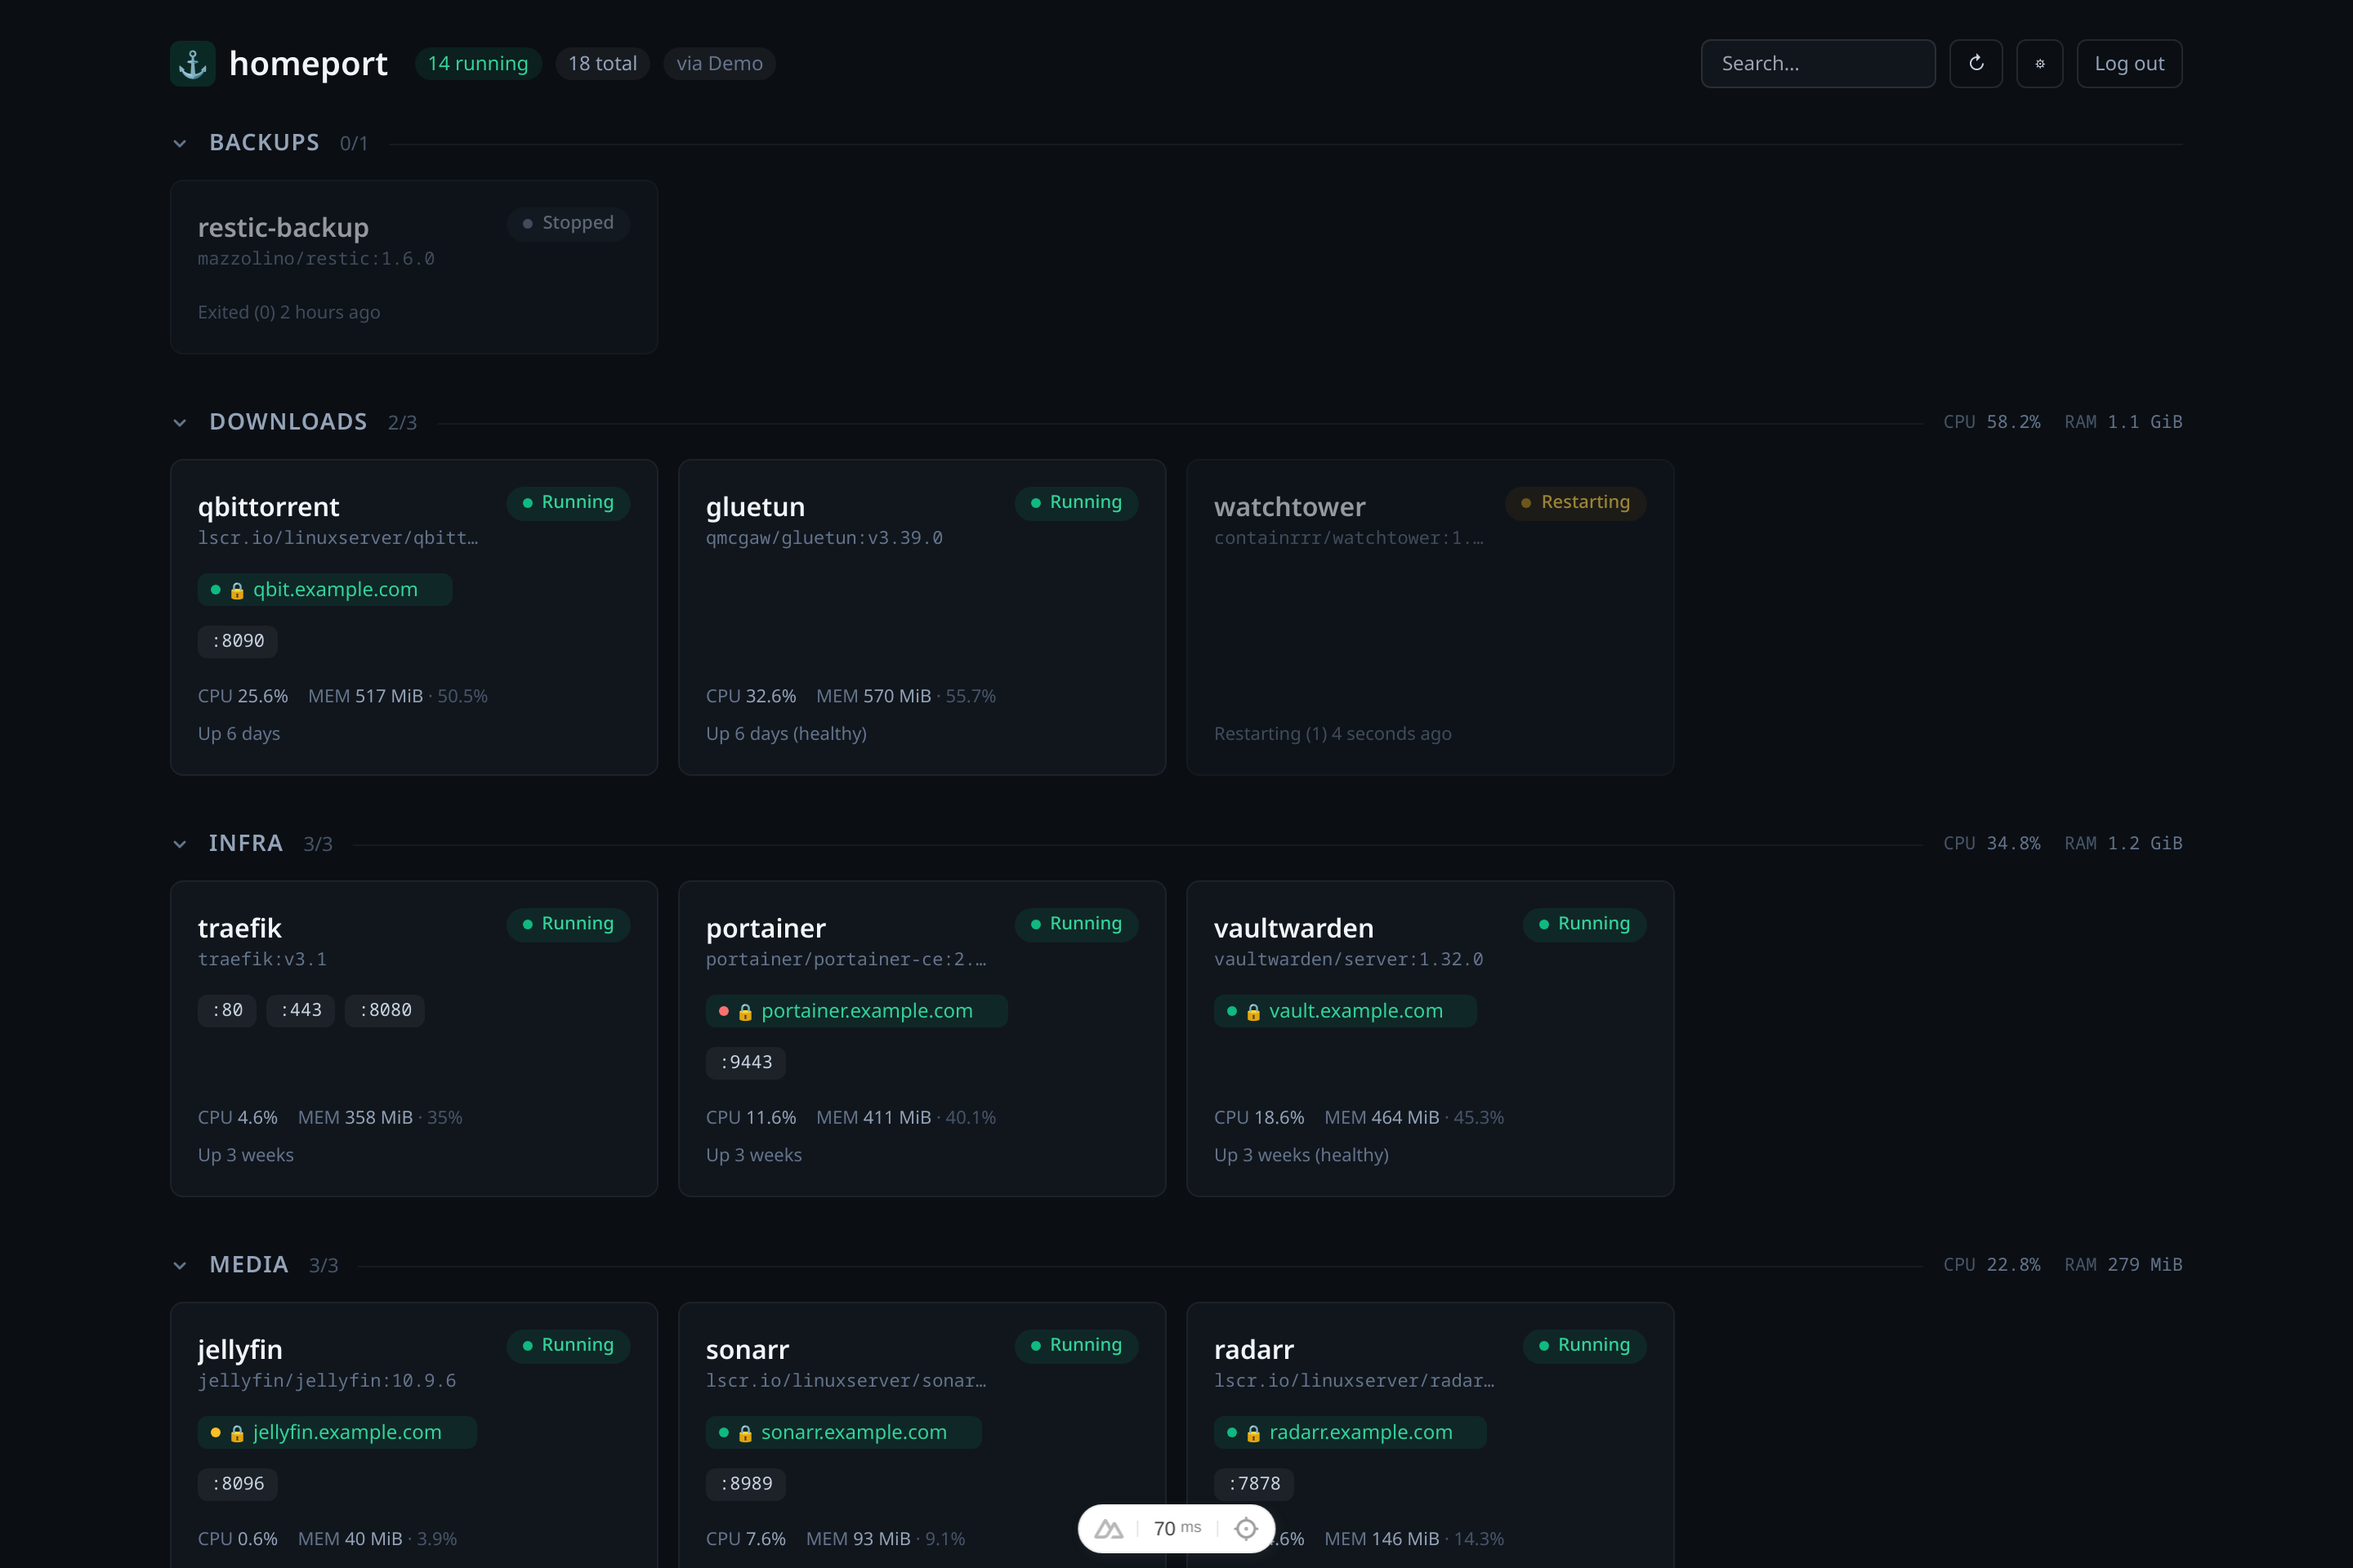
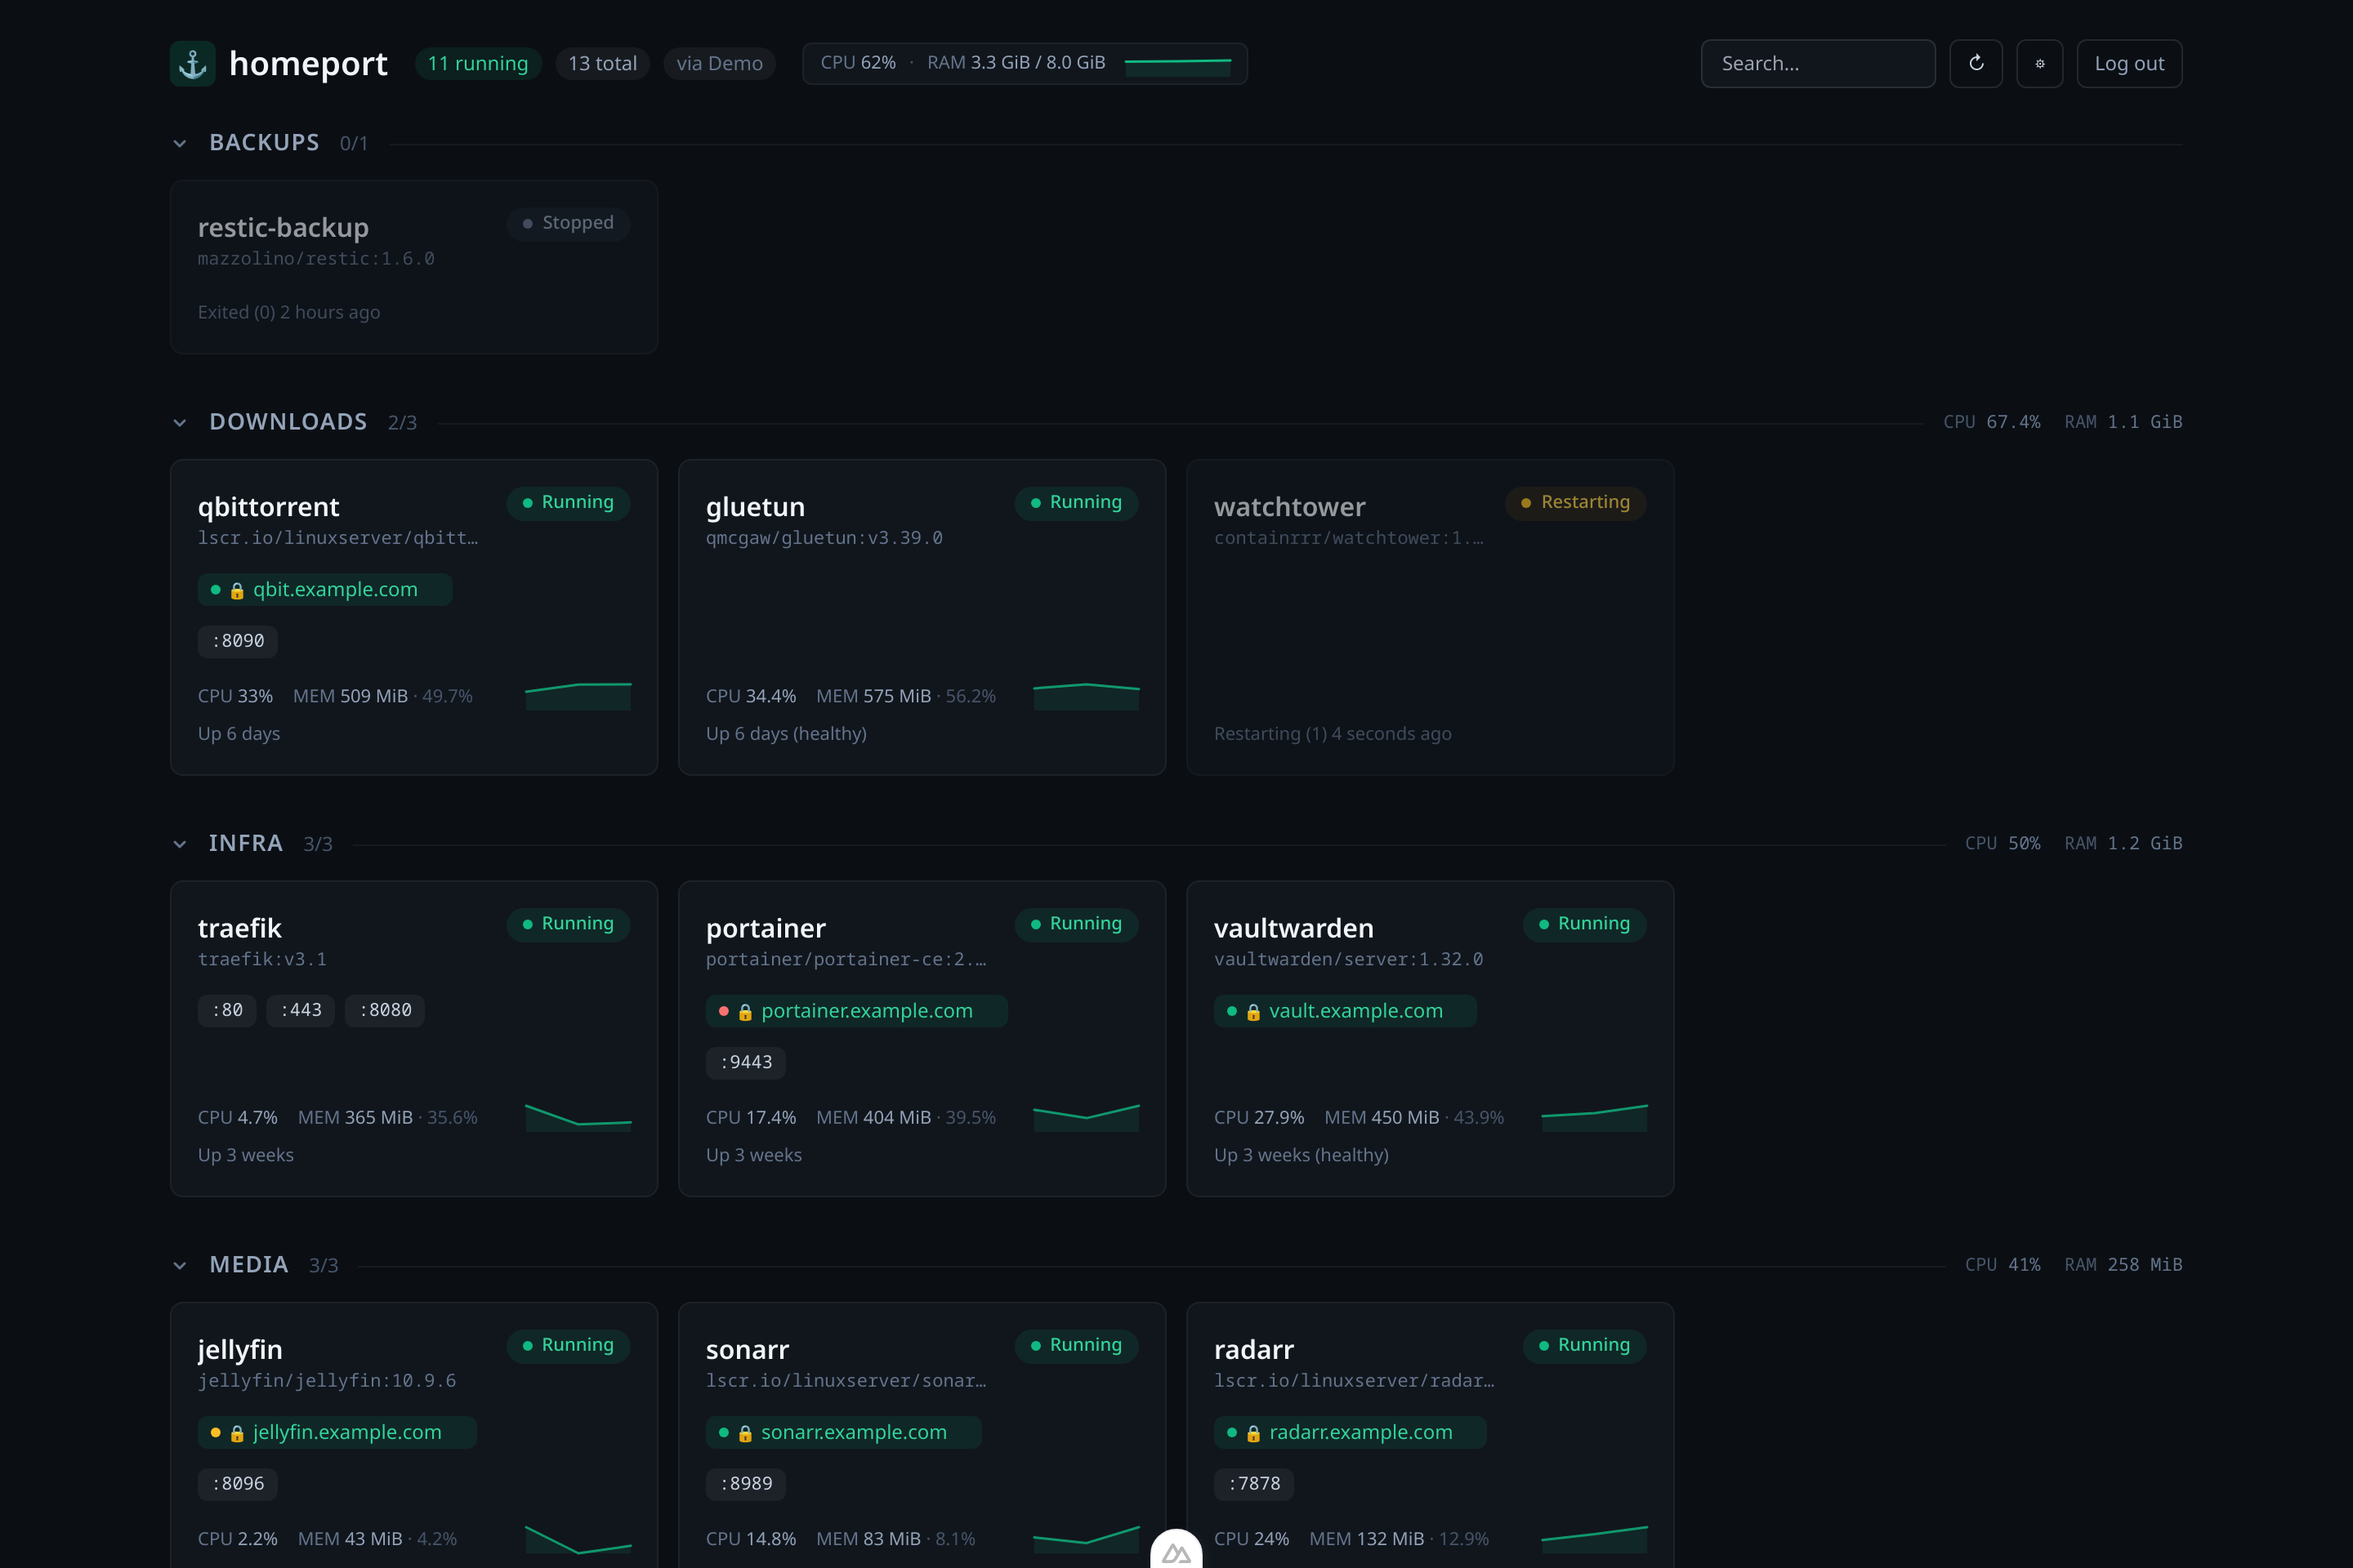
Add live graphs: per-container sparklines + fleet total
- Sparkline.vue (SVG); useStats keeps a rolling client-side history → CPU
  sparkline on each card.
- /api/stats now returns { containers, host }; getHostStats aggregates fleet
  CPU/mem vs host capacity (docker info NCPU + MemTotal) → fleet total + sparkline
  in the header. Demo stats oscillate so demo graphs animate.
- README/screenshot/CONTEXT updated.

diff --git a/composables/useStats.ts b/composables/useStats.ts
@@ -1,15 +1,50 @@
-import type { StatsMap } from '~/types/service'
+import type { HostStats, StatsMap, StatsResponse } from '~/types/service'
 
-/** Polls /api/stats on a slower cadence than the service list. */
+export interface StatHistory {
+  cpu: number[]
+  mem: number[] // MiB for containers, percent for host
+}
+
+const MAX = 40 // ~5 min at a 7s poll
+
+/** Polls /api/stats, exposes current per-container + host stats, and keeps a
+ *  rolling client-side history for live sparklines. */
 export function useStats() {
   const stats = useState<StatsMap>('hp:stats', () => ({}))
+  const host = useState<HostStats | null>('hp:host', () => null)
+  const history = useState<Record<string, StatHistory>>('hp:hist', () => ({}))
+  const hostHistory = useState<StatHistory>('hp:hosthist', () => ({ cpu: [], mem: [] }))
   let poll: ReturnType<typeof setInterval> | null = null
+
+  const push = (arr: number[], v: number) => {
+    const next = [...arr, v]
+    return next.length > MAX ? next.slice(next.length - MAX) : next
+  }
 
   async function refresh() {
     try {
-      stats.value = await $fetch<StatsMap>('/api/stats')
+      const r = await $fetch<StatsResponse>('/api/stats')
+      stats.value = r.containers
+      host.value = r.host
+
+      const hist: Record<string, StatHistory> = { ...history.value }
+      for (const [id, s] of Object.entries(r.containers)) {
+        const prev = hist[id] ?? { cpu: [], mem: [] }
+        hist[id] = {
+          cpu: push(prev.cpu, s.cpuPercent ?? 0),
+          mem: push(prev.mem, Math.round(s.memBytes / 1048576)),
+        }
+      }
+      history.value = hist
+
+      if (r.host) {
+        hostHistory.value = {
+          cpu: push(hostHistory.value.cpu, r.host.cpuPercent),
+          mem: push(hostHistory.value.mem, r.host.memPercent),
+        }
+      }
     } catch {
-      // leave the last values in place on a transient failure
+      // keep last values
     }
   }
 
@@ -17,11 +52,10 @@ export function useStats() {
     refresh()
     if (import.meta.client && !poll) poll = setInterval(refresh, 7000)
   }
-
   function stop() {
     if (poll) clearInterval(poll)
     poll = null
   }
 
-  return { stats, refresh, start, stop }
+  return { stats, host, history, hostHistory, refresh, start, stop }
 }

diff --git a/server/utils/demo.ts b/server/utils/demo.ts
@@ -1,4 +1,4 @@
-import type { PingMap, Service, ServicesResponse, StatsMap } from '~/types/service'
+import type { PingMap, Service, ServicesResponse, StatsMap, StatsResponse } from '~/types/service'
 import { getConfig } from './config'
 
 // A synthetic fleet for HOMEPORT_DEMO=true — lets people try homeport (and grab
@@ -73,20 +73,38 @@ function toService(s: Seed, i: number): Service {
   }
 }
 
-export function demoStats(): StatsMap {
-  const out: StatsMap = {}
+export function demoStats(): StatsResponse {
+  const t = Date.now() / 4000 // gentle oscillation so demo sparklines move
+  const containers: StatsMap = {}
   seeds.forEach((s, i) => {
     const state = demoOverrides[`demo-${i}`] || s.state || 'running'
     if (state !== 'running') return
-    const memMiB = 40 + ((i * 53) % 620)
-    out[`demo-${i}`] = {
-      cpuPercent: Math.round((((i * 7) % 38) + 0.6) * 10) / 10,
+    const base = ((i * 7) % 38) + 4
+    const cpu = Math.max(0, Math.round((base + Math.sin(t + i) * 6) * 10) / 10)
+    const memMiB = Math.max(20, 40 + ((i * 53) % 620) + Math.round(Math.sin(t * 0.7 + i) * 14))
+    containers[`demo-${i}`] = {
+      cpuPercent: cpu,
       memBytes: memMiB * 1024 * 1024,
       memLimitBytes: 1024 * 1024 * 1024,
       memPercent: Math.round((memMiB / 1024) * 1000) / 10,
     }
   })
-  return out
+
+  const vals = Object.values(containers)
+  const ncpu = 4
+  const memTotal = 8 * 1024 ** 3
+  const cpuSum = vals.reduce((a, s) => a + (s.cpuPercent || 0), 0)
+  const memUsed = vals.reduce((a, s) => a + s.memBytes, 0)
+  return {
+    containers,
+    host: {
+      ncpu,
+      cpuPercent: Math.round((cpuSum / ncpu) * 10) / 10,
+      memUsed,
+      memTotal,
+      memPercent: Math.round((memUsed / memTotal) * 1000) / 10,
+    },
+  }
 }
 
 export function demoPings(): PingMap {

diff --git a/components/Sparkline.vue b/components/Sparkline.vue
@@ -1,0 +1,49 @@
+<template>
+  <svg
+    :viewBox="`0 0 ${W} ${H}`"
+    preserveAspectRatio="none"
+    class="block h-full w-full overflow-visible"
+    role="img"
+  >
+    <polyline
+      v-if="line"
+      :points="line"
+      fill="none"
+      :stroke="color"
+      stroke-width="1.5"
+      vector-effect="non-scaling-stroke"
+      stroke-linejoin="round"
+      stroke-linecap="round"
+    />
+    <polygon v-if="area" :points="area" :fill="color" fill-opacity="0.12" stroke="none" />
+  </svg>
+</template>
+
+<script setup lang="ts">
+const props = withDefaults(
+  defineProps<{ data: number[]; max?: number; color?: string }>(),
+  { color: '#10b981' },
+)
+
+const W = 100
+const H = 28
+
+const peak = computed(() => props.max ?? Math.max(1, ...props.data))
+
+const coords = computed(() => {
+  const d = props.data
+  if (d.length < 2) return [] as [number, number][]
+  return d.map((v, i) => {
+    const x = (i / (d.length - 1)) * W
+    const y = H - Math.min(1, Math.max(0, v / peak.value)) * H
+    return [x, y] as [number, number]
+  })
+})
+
+const line = computed(() => coords.value.map(([x, y]) => `${x.toFixed(1)},${y.toFixed(1)}`).join(' '))
+const area = computed(() => {
+  const c = coords.value
+  if (!c.length) return ''
+  return `0,${H} ${line.value} ${W},${H}`
+})
+</script>

diff --git a/server/utils/stats.ts b/server/utils/stats.ts
@@ -1,4 +1,4 @@
-import type { ContainerStats, StatsMap } from '~/types/service'
+import type { ContainerStats, HostStats, StatsMap } from '~/types/service'
 import { getDocker } from './docker'
 
 // One-shot CPU% using Docker's standard delta formula. With stream:false the
@@ -50,4 +50,25 @@ export async function getStats(ids: string[]): Promise<StatsMap> {
 
   await Promise.all(Array.from({ length: Math.min(8, ids.length || 1) }, worker))
   return out
+}
+
+/** Fleet aggregate vs host capacity (CPU cores + total RAM from `docker info`). */
+export async function getHostStats(containers: StatsMap): Promise<HostStats | null> {
+  try {
+    const info: any = await getDocker().info()
+    const ncpu = info.NCPU || 1
+    const memTotal = info.MemTotal || 0
+    const vals = Object.values(containers)
+    const cpuSum = vals.reduce((a, s) => a + (s.cpuPercent || 0), 0)
+    const memUsed = vals.reduce((a, s) => a + s.memBytes, 0)
+    return {
+      ncpu,
+      cpuPercent: Math.round((cpuSum / ncpu) * 10) / 10,
+      memUsed,
+      memTotal,
+      memPercent: memTotal ? Math.round((memUsed / memTotal) * 1000) / 10 : 0,
+    }
+  } catch {
+    return null
+  }
 }

diff --git a/pages/index.vue b/pages/index.vue
@@ -12,6 +12,13 @@
           via {{ data.domainProvider }}
         </span>
       </div>
+      <!-- Fleet totals + live graph -->
+      <div v-if="fleet" class="hidden items-center gap-2 rounded-md border border-white/5 bg-ink-900 px-2.5 py-1 text-[11px] text-slate-400 lg:flex">
+        <span><span class="text-slate-500">CPU</span> {{ fleet.cpuPercent }}%</span>
+        <span class="text-slate-600">·</span>
+        <span><span class="text-slate-500">RAM</span> {{ formatBytes(fleet.memUsed) }} / {{ formatBytes(fleet.memTotal) }}</span>
+        <div class="ml-1 h-4 w-16"><Sparkline :data="fleetHistory.cpu" :max="100" /></div>
+      </div>
       <div class="ml-auto flex items-center gap-2">
         <SearchBar v-model="q" />
         <button class="rounded-md border border-white/10 px-2.5 py-1.5 text-xs text-slate-300 hover:bg-white/5" title="Refresh" @click="refresh">↻</button>
@@ -51,6 +58,8 @@ import type { Service } from '~/types/service'
 
 const { data, error, loading, refresh, start, stop } = useServices()
 const stats = useStats()
+const fleet = stats.host
+const fleetHistory = stats.hostHistory
 const pings = usePings()
 const q = ref('')
 

diff --git a/server/api/stats.get.ts b/server/api/stats.get.ts
@@ -1,15 +1,17 @@
+import type { StatsResponse } from '~/types/service'
 import { getConfig } from '../utils/config'
 import { listContainers } from '../utils/docker'
-import { getStats } from '../utils/stats'
+import { getStats, getHostStats } from '../utils/stats'
 import { demoStats } from '../utils/demo'
 
-// Separate from /api/services so the (relatively expensive) per-container stats
-// poll on its own slower cadence and never slows the main service list.
-export default defineEventHandler(async () => {
+// Per-container stats + a fleet/host aggregate. Polled on its own slower cadence.
+export default defineEventHandler(async (): Promise<StatsResponse> => {
   if (getConfig().demo) return demoStats()
   try {
     const running = (await listContainers()).filter((c) => c.state === 'running').map((c) => c.id)
-    return await getStats(running)
+    const containers = await getStats(running)
+    const host = await getHostStats(containers)
+    return { containers, host }
   } catch (err: any) {
     throw createError({ statusCode: 502, statusMessage: `Stats unavailable: ${err?.message || err}` })
   }

diff --git a/components/ServiceCard.vue b/components/ServiceCard.vue
@@ -65,6 +65,9 @@
             class="text-slate-600"
           > · {{ stat.memPercent }}%</span>
         </span>
+        <div v-if="cpuHistory.length > 1" class="ml-auto h-4 w-16 opacity-80">
+          <Sparkline :data="cpuHistory" />
+        </div>
       </div>
       <div class="flex items-center justify-between gap-2">
         <p class="truncate text-[11px] text-slate-500" :title="service.statusText">
@@ -94,8 +97,9 @@ const props = defineProps<{ service: Service }>()
 // Best-effort host for port links: wherever the dashboard itself is opened.
 const host = computed(() => (import.meta.client ? window.location.hostname : 'localhost'))
 
-const { stats, refresh: refreshStats } = useStats()
+const { stats, history, refresh: refreshStats } = useStats()
 const stat = computed(() => stats.value[props.service.id])
+const cpuHistory = computed(() => history.value[props.service.id]?.cpu ?? [])
 
 const { pings } = usePings()
 function pingClass(url: string): string {

diff --git a/types/service.ts b/types/service.ts
@@ -41,6 +41,19 @@ export interface ContainerStats {
 
 export type StatsMap = Record<string, ContainerStats>
 
+export interface HostStats {
+  ncpu: number
+  cpuPercent: number // fleet CPU as a % of host cores
+  memUsed: number
+  memTotal: number // host total RAM (from docker info)
+  memPercent: number
+}
+
+export interface StatsResponse {
+  containers: StatsMap
+  host: HostStats | null
+}
+
 export interface PingResult {
   status: number // HTTP status, or 0 = no response (down)
   ms: number

diff --git a/README.md b/README.md
@@ -27,7 +27,7 @@ homeport reads it all live:
 - **Live** — updates the moment a container starts, stops, or goes unhealthy (Docker events).
 - **Uptime** — optionally HTTP-pings each mapped domain (up / down / latency dot).
 - **systemd** — optionally shows host systemd services alongside containers.
-- **Resource stats** — live CPU + memory per container, with **per-stack totals**.
+- **Resource stats** — live CPU + memory per container with **sparkline graphs**, per-stack totals, and a **fleet total** (CPU% + RAM vs host) up top.
 - **Grouped by stack** (Docker Compose project) — collapsible, searchable, dark by default.
 - **Optional start/stop** controls (off by default — read-only unless you opt in).
 - **In-app settings page** — pick your reverse proxy, Docker connection (local or remote-over-SSH), and toggle controls without editing env. (Env vars still win when set.)
@@ -141,8 +141,8 @@ trusted networks / your own hosts.
 
 ## Roadmap
 
-- Live per-container graphs (CPU/mem history)
 - Multi-host
+- gethomepage.dev-style compact redesign
 - SSH host-key verification (remote mode)
 
 ## License
